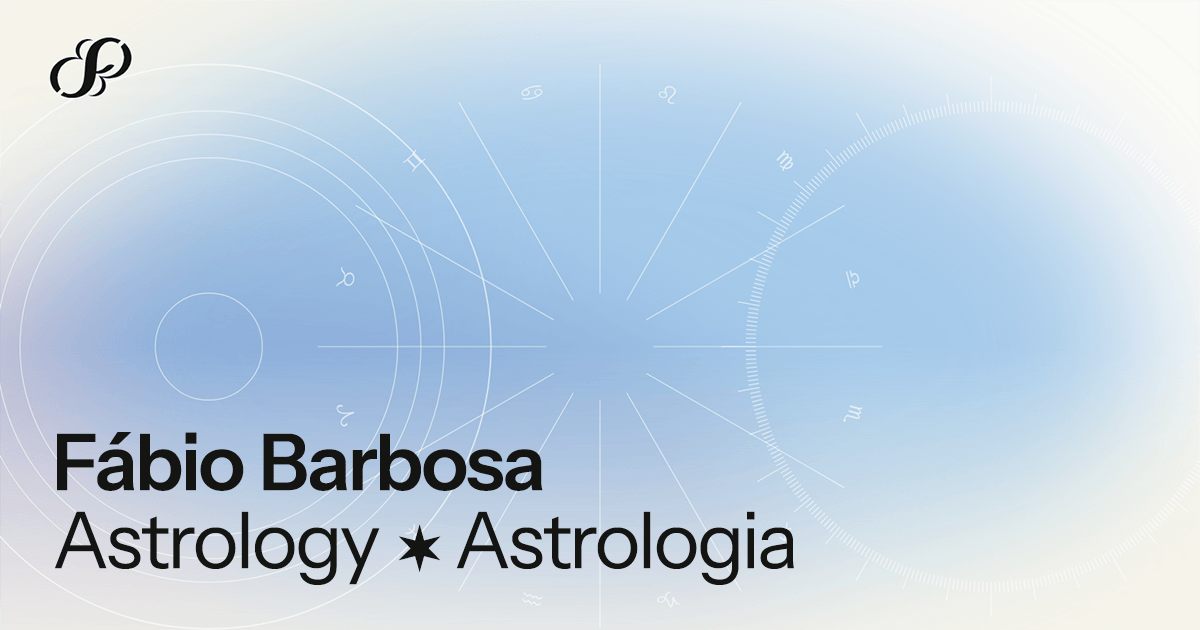
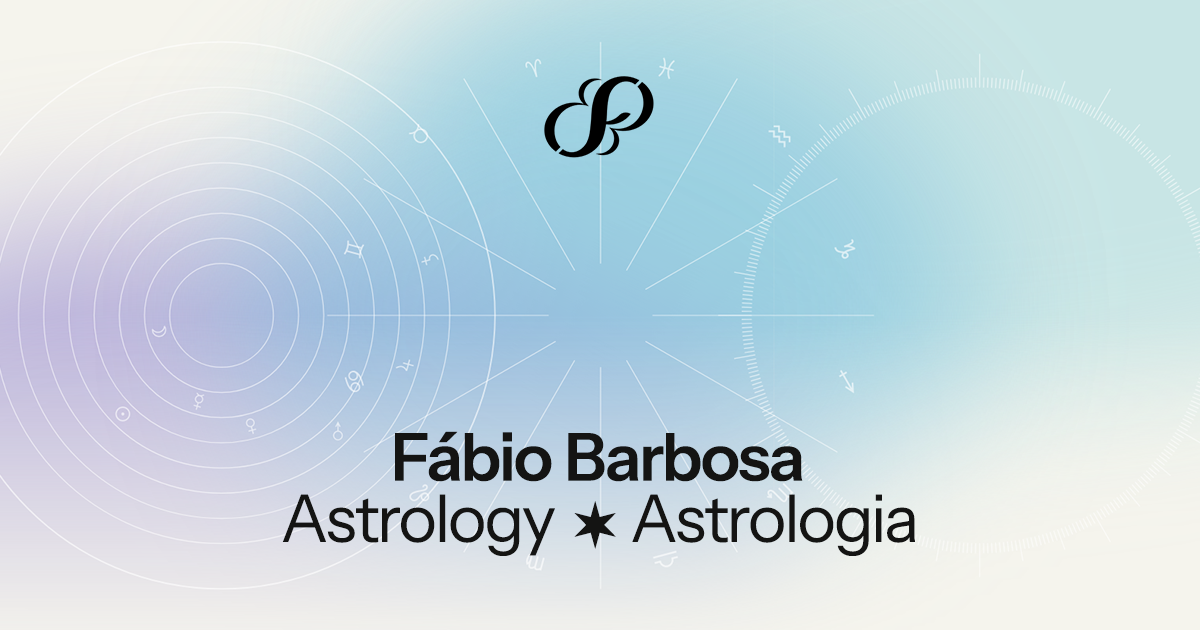
Add og_blue.png; switch OG image reference; bump to 0.9.5

diff --git a/PLAN.md b/PLAN.md
@@ -177,7 +177,7 @@ Core Astro setup, SSR, Tailwind v4, bilingual routing, header, layout, middlewar
 - [x] Footer columns use `items-stretch` so all three columns (logo/email, nav, newsletter) share the same height.
 - [x] `leading-none` removed from all page hero `h1`s (HomePage, ConsultationsPage, AboutPage, TermsPage) — `text-7xl` already sets `line-height: 1`; the class was redundant.
 - [ ] Real photo at `public/images/fabio.jpg`
-- [ ] OG image at `public/images/og.jpg`
+- [x] OG image at `public/images/og_blue.png`
 - [ ] Final EN copy review
 - [ ] Final PT copy review (about bio known to need a looser rewrite)
 - [ ] Lighthouse audit (performance, a11y, SEO)
@@ -187,7 +187,7 @@ Core Astro setup, SSR, Tailwind v4, bilingual routing, header, layout, middlewar
 
 ## d) Progress
 
-Overall: ~95% — `package.json` version: `0.9.4`
+Overall: ~96% — `package.json` version: `0.9.5`
 
 | Stage                    | Status      | %    |
 | ------------------------ | ----------- | ---- |
